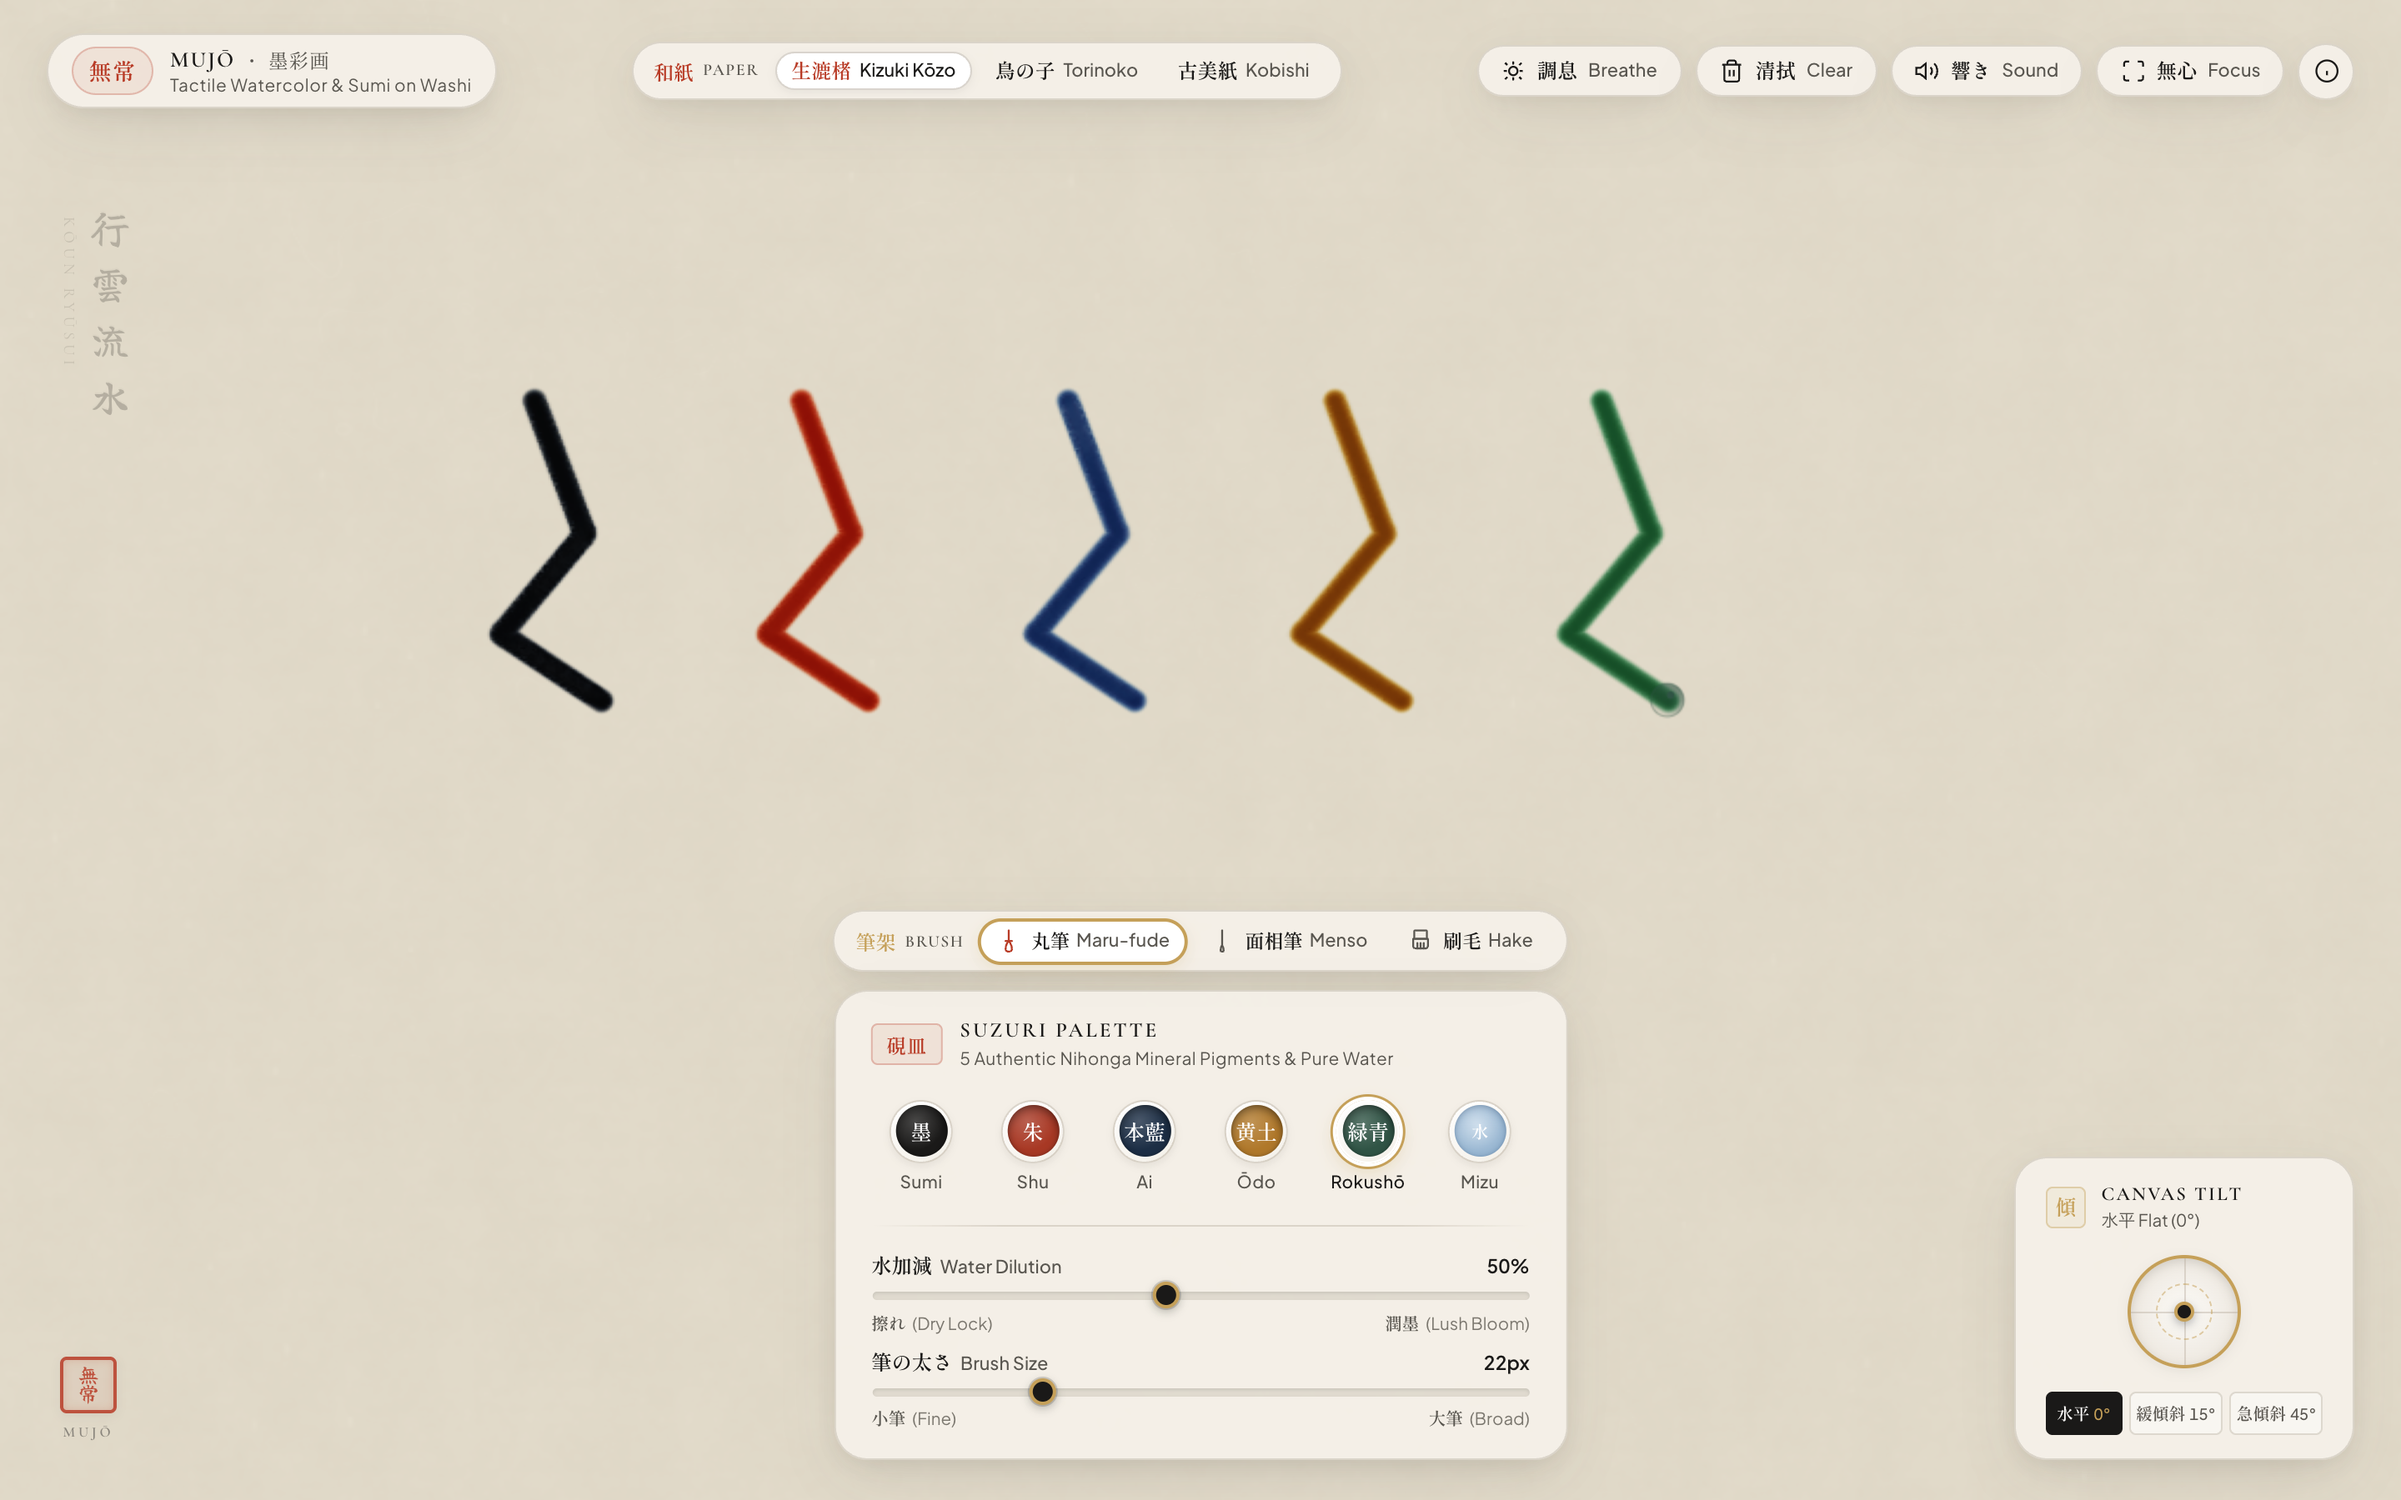
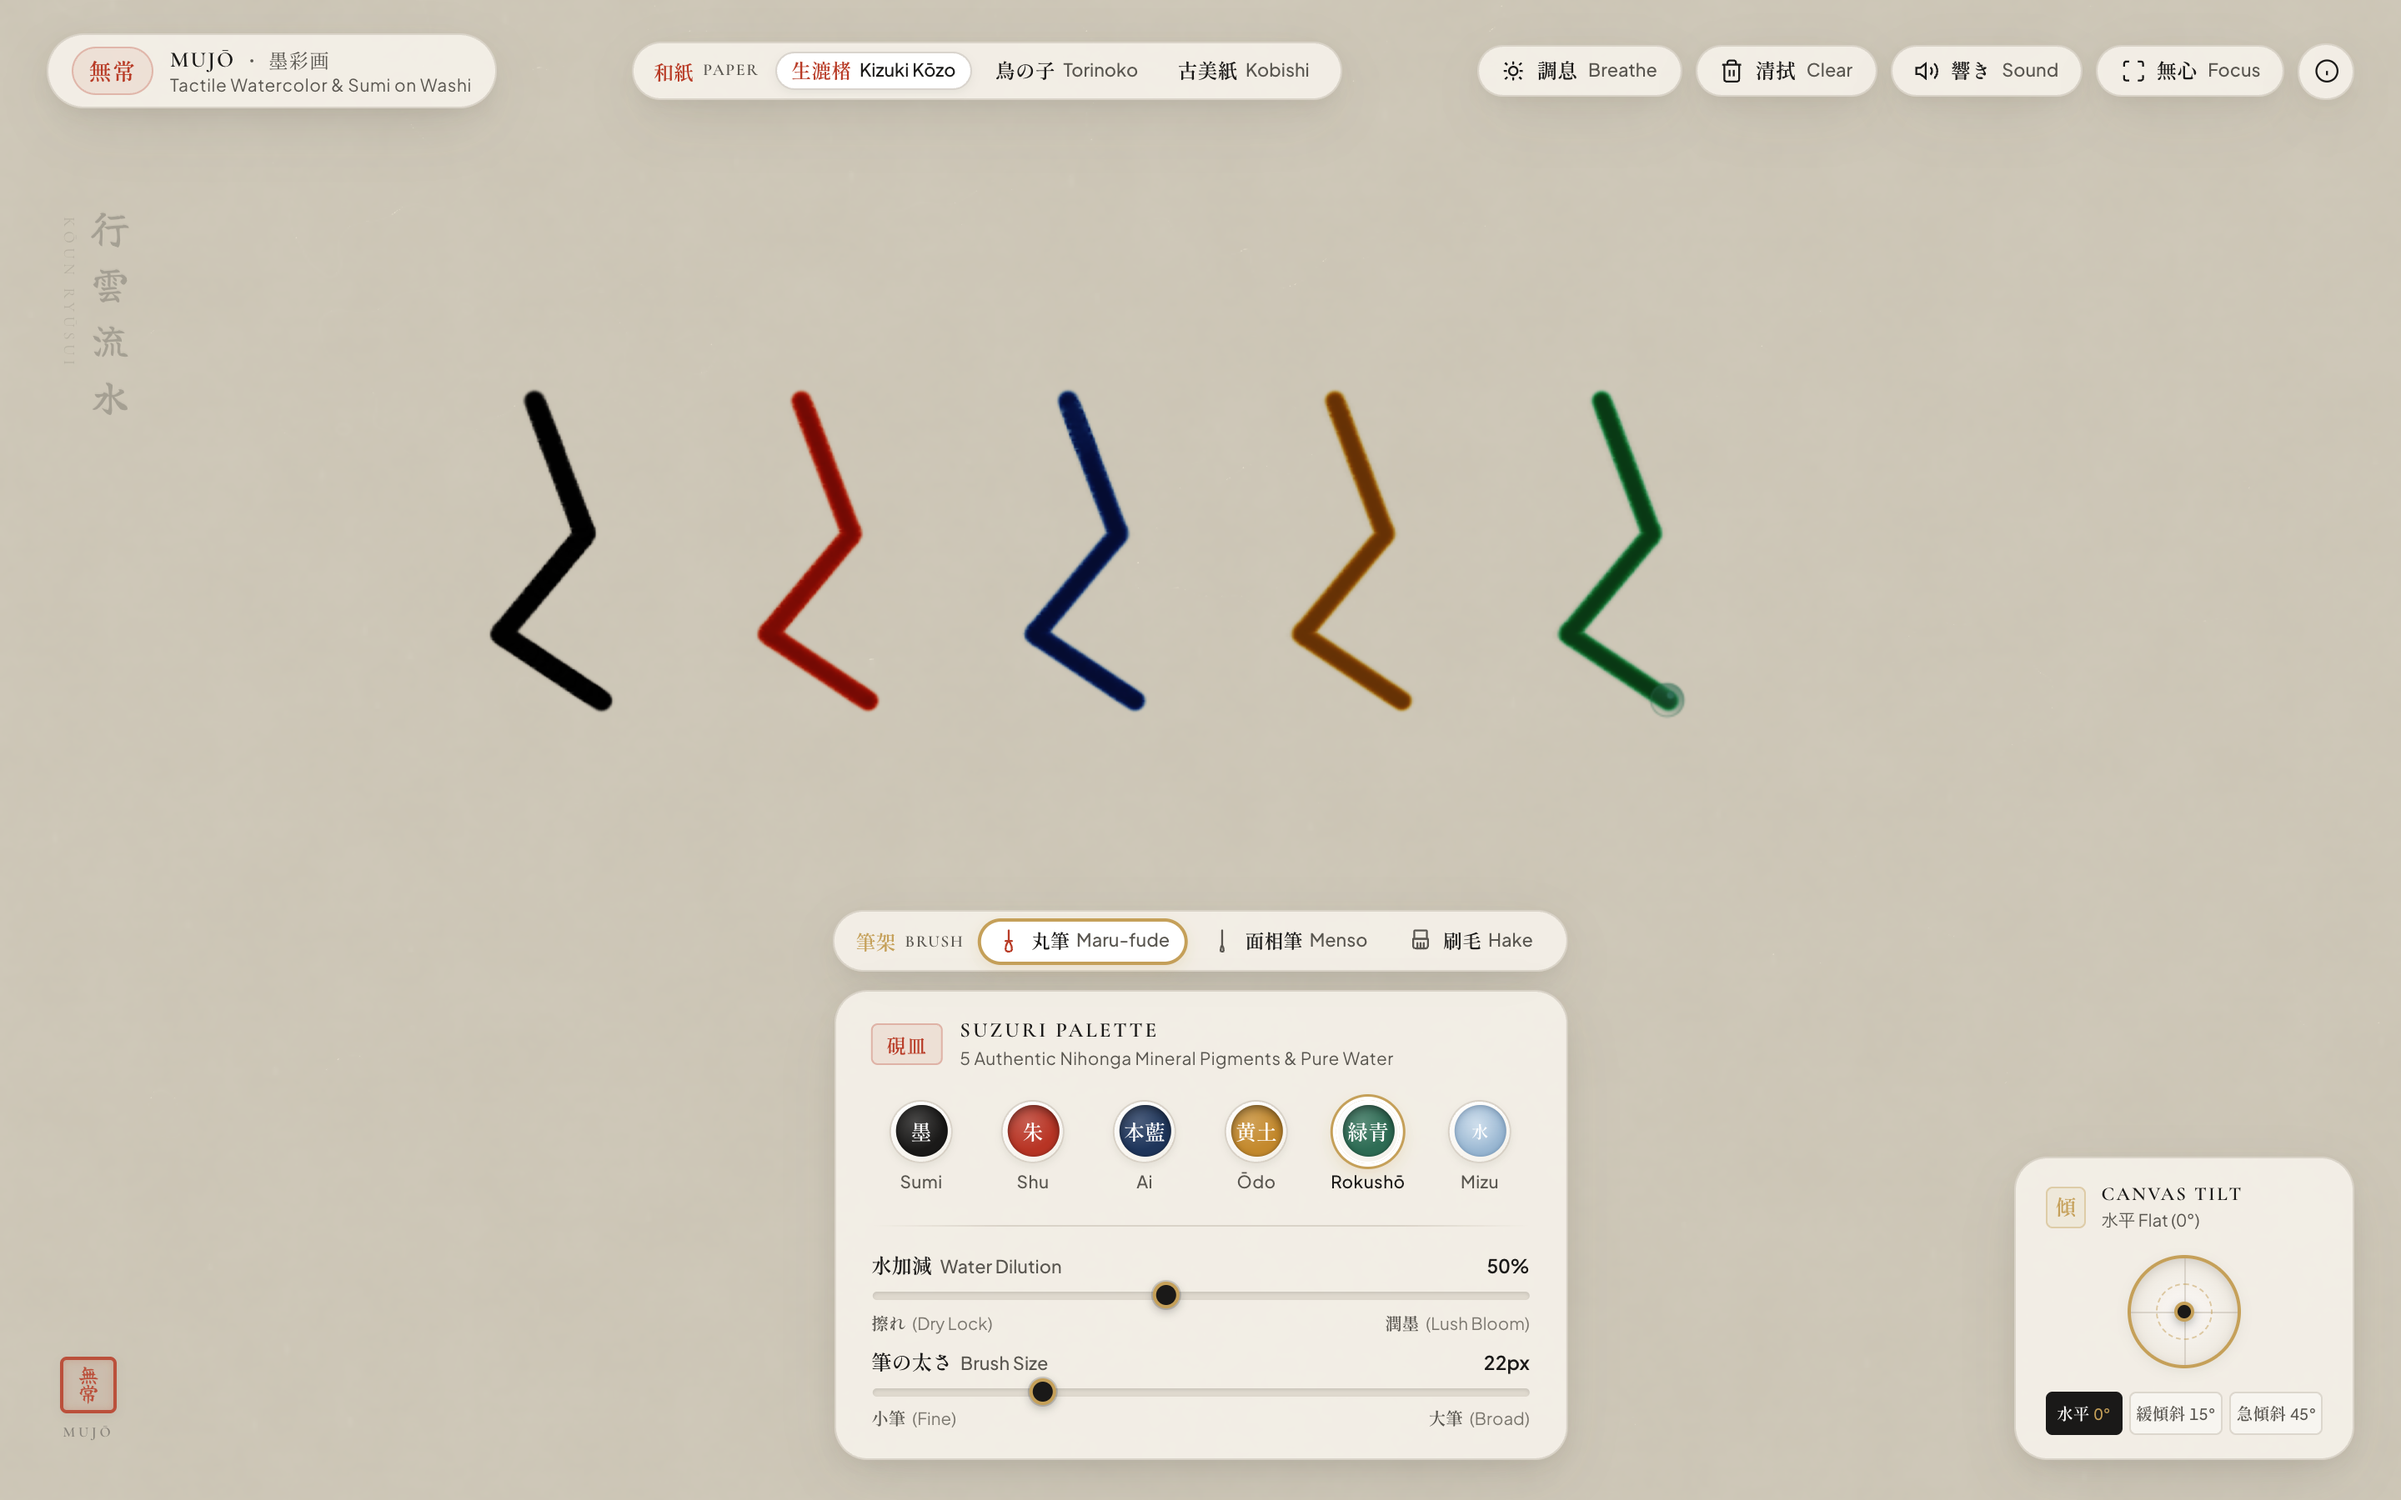
fix(optics): restore non-linear Kubelka-Munk radiative transfer, 3D paper light grazing, and authentic Nihonga mineral spectra

diff --git a/src/ui/InkstonePalette.ts b/src/ui/InkstonePalette.ts
@@ -27,36 +27,36 @@ export const TRADITIONAL_PIGMENTS: PigmentInfo[] = [
     name: 'Shu',
     kanji: '朱',
     sub: 'Cinnabar Vermilion',
-    colorHex: '#a83824',
-    ringColor: '#c74932',
-    description: 'Natural cinnabar mineral (本朱) — Warm earthy vermilion'
+    colorHex: '#b83424',
+    ringColor: '#d64836',
+    description: 'Natural cinnabar mineral (本朱) — Fiery warm mineral vermilion'
   },
   {
     id: 2,
     name: 'Ai',
     kanji: '本藍',
     sub: 'Fermented Indigo',
-    colorHex: '#1c2e45',
-    ringColor: '#2b4463',
-    description: 'Botanical fermented indigo (本藍) — Deep slate-navy wash'
+    colorHex: '#1e355b',
+    ringColor: '#2f4f82',
+    description: 'Botanical fermented indigo (本藍) — Deep slate-navy with luminous blue undertone'
   },
   {
     id: 3,
     name: 'Ōdo',
     kanji: '黄土',
     sub: 'Raw Yellow Ochre',
-    colorHex: '#b0782a',
-    ringColor: '#cc8d33',
-    description: 'Natural yellow ochre earth clay (天然黄土) — Warm amber granulation'
+    colorHex: '#c4892c',
+    ringColor: '#e0a33c',
+    description: 'Natural yellow ochre earth clay (天然黄土) — Glowing warm amber granulation'
   },
   {
     id: 4,
     name: 'Rokushō',
     kanji: '緑青',
     sub: 'Malachite Verdigris',
-    colorHex: '#305445',
-    ringColor: '#457561',
-    description: 'Crushed malachite copper patina (天然緑青) — Earthy celadon sage'
+    colorHex: '#2d6c54',
+    ringColor: '#3f8c6e',
+    description: 'Crushed malachite copper patina (天然緑青) — Rich mineral patina with celadon glaze'
   },
   {
     id: 5,
